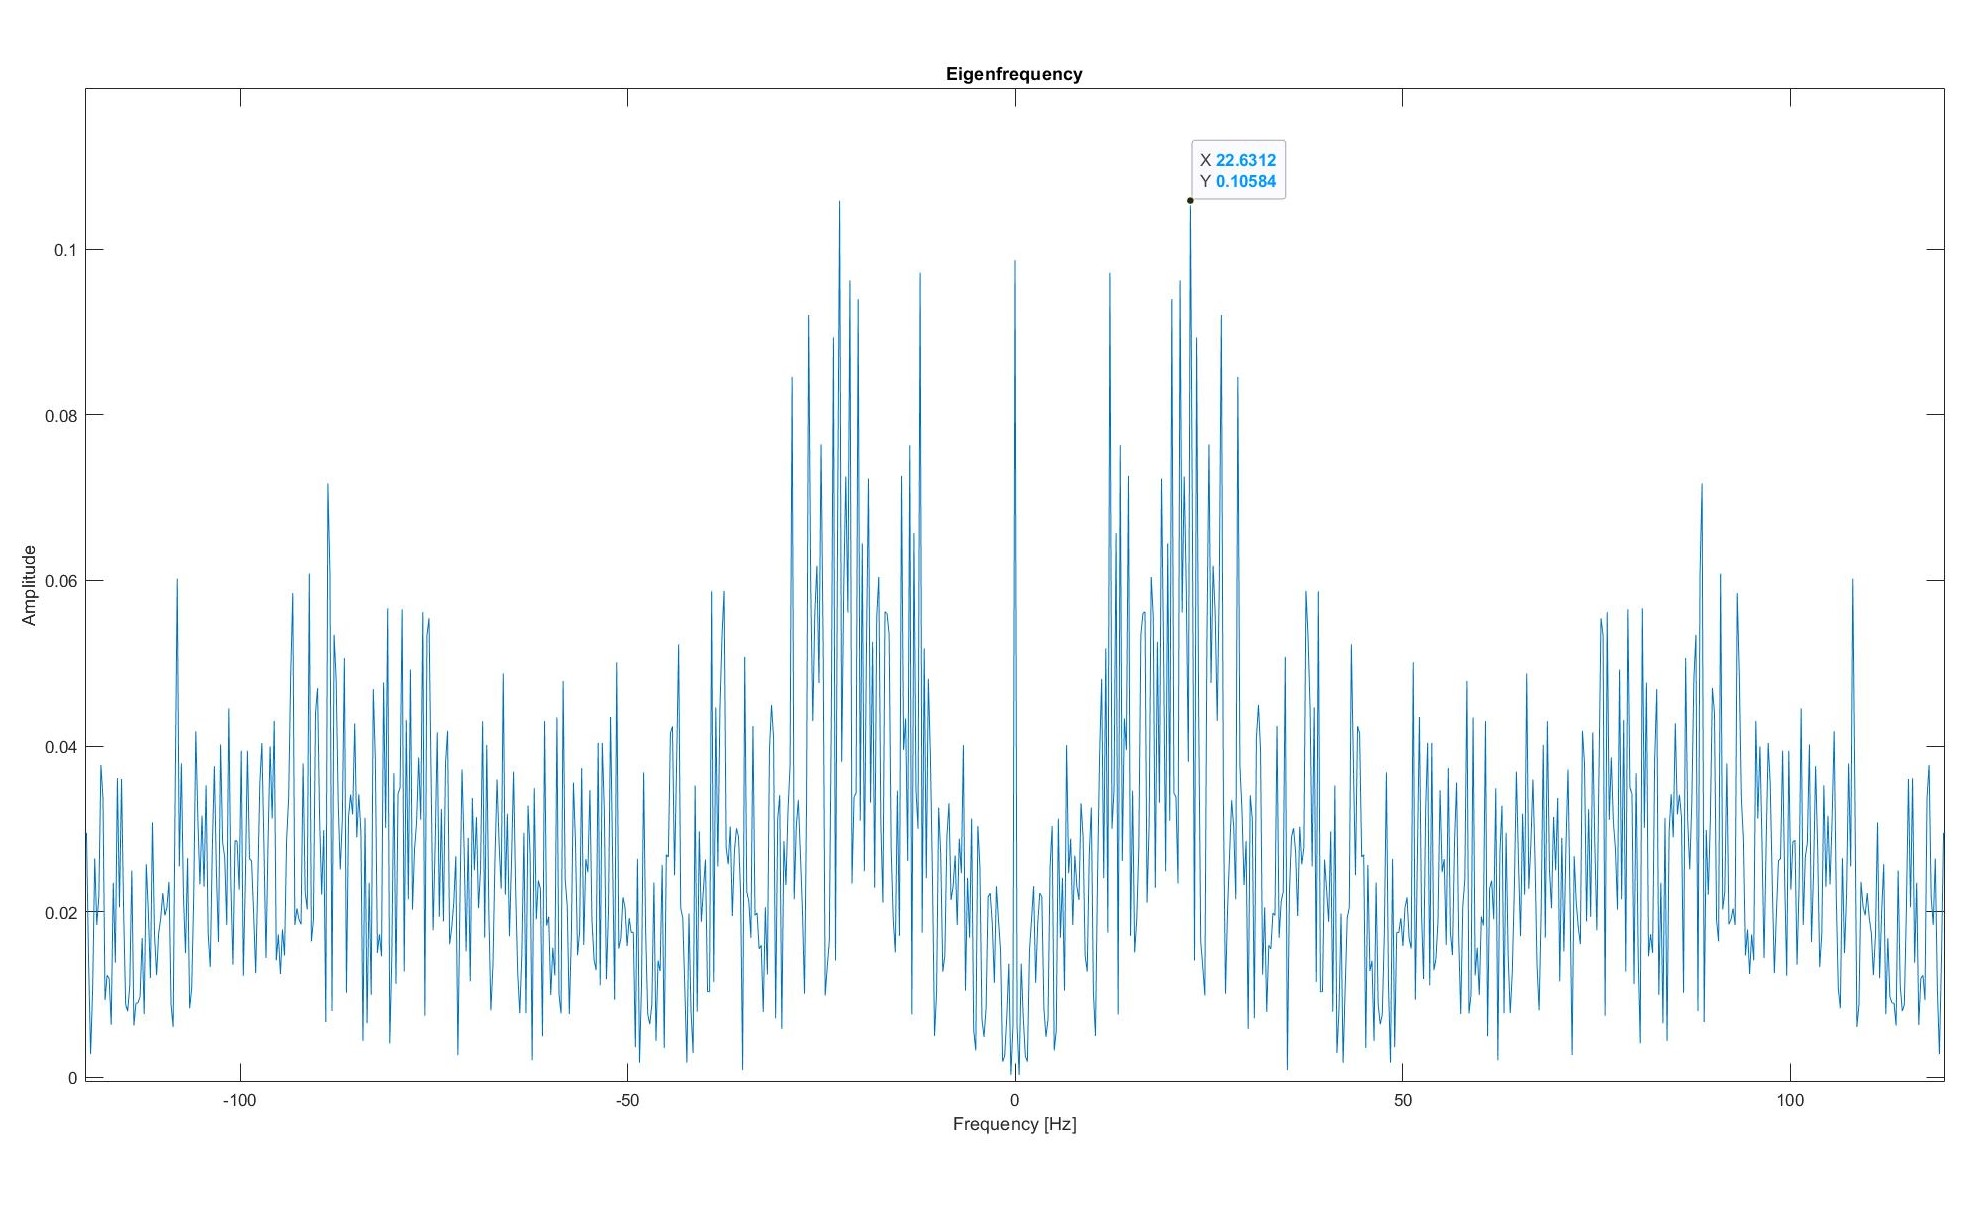
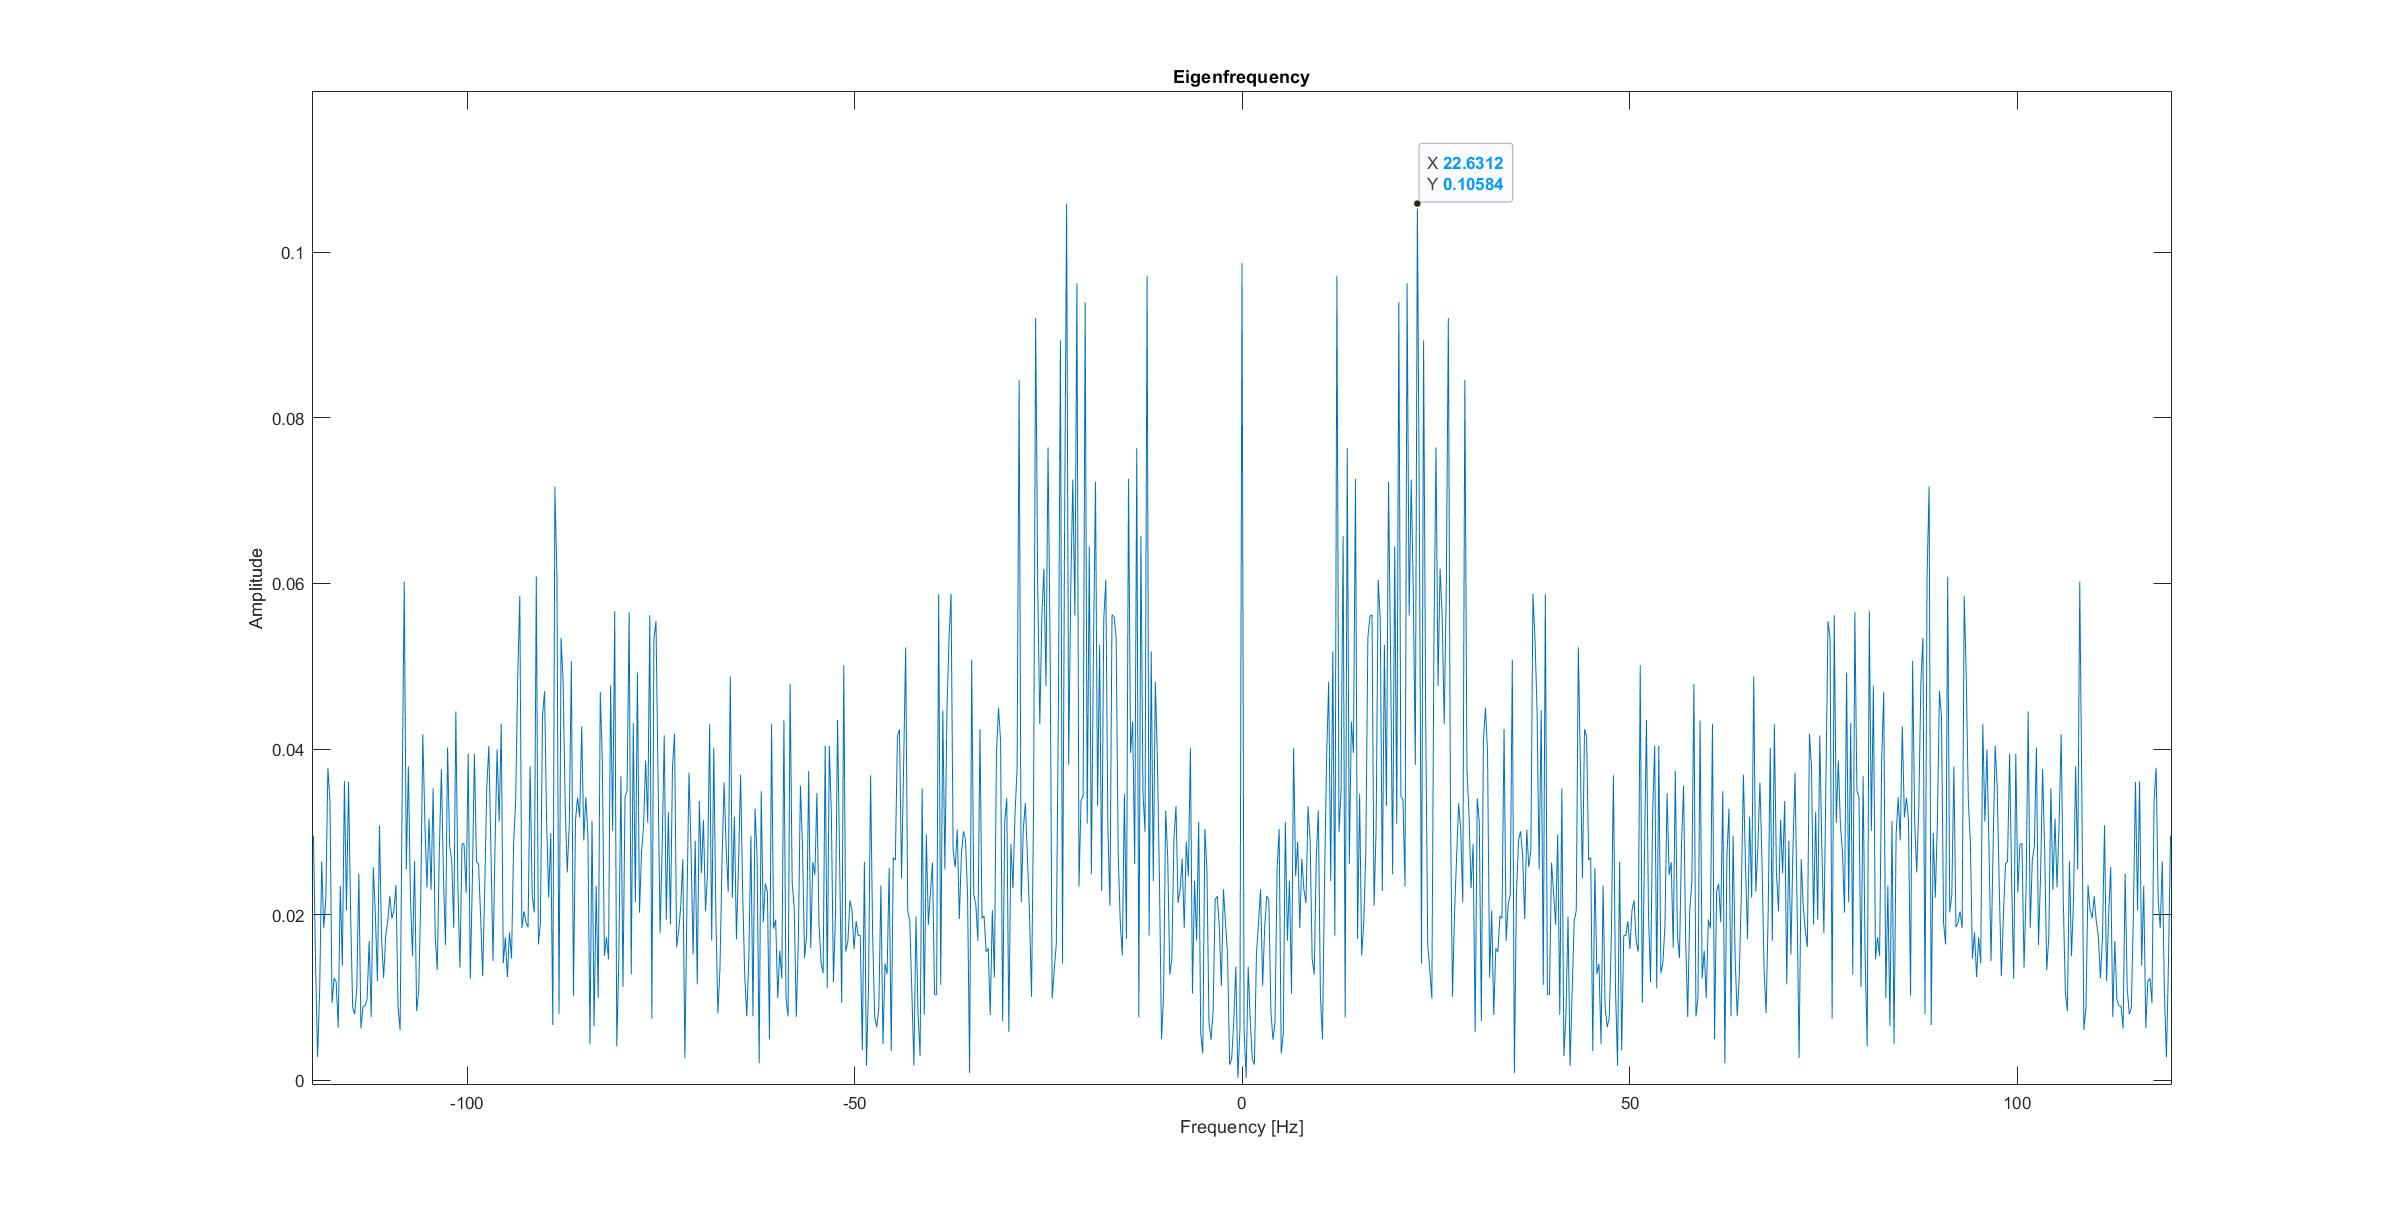
Pushing the edits made from the notes

diff --git a/docs/_site/analysis.html b/docs/_site/analysis.html
@@ -59,13 +59,12 @@ body {font-family: "Lato", sans-serif}
     <p class="w3-justify">The spikes correspond with the frequencies that have the most variation across the training set. For example, we can see the highest spike occurring at 22 Hz.  This means that there is lots of variation (because it is one of the first eigenfrequencies from PCA) at this frequency in the training set.</p>
     <p class="w3-justify">Using the test set, we project each of the Fouier transformations onto the basis vectors defined by the PCA of the training set.  We then find the Euclidean Distance between the training and test sets in order to classify the test signal as either a seizure or not.  The code for this classification can be found below:</p>
 	<h3 class="w3-wide">FILTERING DATA</h3>
-	<p class="w3-justify">To increase the ease of analysing the data, we use a moving average filter in order to smooth out some features of the data that we don't necessarily need to a full precision. We used difference equations on the Fourier transformed data to enable ourselves to focus on more useful aspects of the data. A difference equation defines the sequence by specifying the relation between the nth element of the sequence and various quantities, including (potentially) previous terms in the sequence.
-	    <img src="Moving Average Filter.jpg" class="w3-round w3-margin-bottom" alt="Filter" style="width:120%" class="center">
-	<p class="w3-justify">We used a seven point moving average filter.</p>
-	
-	<math>
-		filtered(x) = <sup>(x<sub>n-3</sub> + x<sub>n-2</sub> + x<sub>n-1</sub> + x<sub>n</sub> + x<sub>n+1</sub> + x<sub>n+2</sub> + x<sub>n+3</sub>)</sup>&frasl;<sub>7</sub>
-	</math>
+	<p class="w3-justify">To increase the ease of analysing the data, we use a moving average filter in order to smooth out some features of the data that we don't necessarily need to a full precision. We used difference equations on the Fourier transformed data to enable ourselves to focus on more useful aspects of the data. A difference equation defines the sequence by specifying the relation between the nth element of the sequence and various quantities, including (potentially) previous terms in the sequence. Before any sort of filtering, the eigenfrequencies looked as in the graph attached to the "Classifying Data" tab.</p>
+	<img src="eigenfrequency.jpg" class="w3-round w3-margin-bottom" alt="Unfiltered" style="width:120%" class="center">
+	<p class="w3-justify">We used a seven point moving average filter. </p><br>
+	<math>Filtered(x) = <sup>(x<sub>n-3</sub> + x<sub>n-2</sub> + x<sub>n-1</sub> + x<sub>n</sub> + x<sub>n+1</sub> + x<sub>n+2</sub> + x<sub>n+3</sub>)</sup>&frasl;<sub>7</sub></math><br>
+	<p class="w3-justify">Post filtering, this graph appears as follows:</p><br>
+	<img src="Moving Average Filter.jpg" class="w3-round w3-margin-bottom" alt="Filtered" style="width:120%" class="center">
 	</p>
   
   </div>

diff --git a/docs/analysis.html b/docs/analysis.html
@@ -59,13 +59,12 @@ body {font-family: "Lato", sans-serif}
     <p class="w3-justify">The spikes correspond with the frequencies that have the most variation across the training set. For example, we can see the highest spike occurring at 22 Hz.  This means that there is lots of variation (because it is one of the first eigenfrequencies from PCA) at this frequency in the training set.</p>
     <p class="w3-justify">Using the test set, we project each of the Fouier transformations onto the basis vectors defined by the PCA of the training set.  We then find the Euclidean Distance between the training and test sets in order to classify the test signal as either a seizure or not.  The code for this classification can be found below:</p>
 	<h3 class="w3-wide">FILTERING DATA</h3>
-	<p class="w3-justify">To increase the ease of analysing the data, we use a moving average filter in order to smooth out some features of the data that we don't necessarily need to a full precision. We used difference equations on the Fourier transformed data to enable ourselves to focus on more useful aspects of the data. A difference equation defines the sequence by specifying the relation between the nth element of the sequence and various quantities, including (potentially) previous terms in the sequence.
-	    <img src="Moving Average Filter.jpg" class="w3-round w3-margin-bottom" alt="Filter" style="width:120%" class="center">
-	<p class="w3-justify">We used a seven point moving average filter.</p>
-	
-	<math>
-		filtered(x) = <sup>(x<sub>n-3</sub> + x<sub>n-2</sub> + x<sub>n-1</sub> + x<sub>n</sub> + x<sub>n+1</sub> + x<sub>n+2</sub> + x<sub>n+3</sub>)</sup>&frasl;<sub>7</sub>
-	</math>
+	<p class="w3-justify">To increase the ease of analysing the data, we use a moving average filter in order to smooth out some features of the data that we don't necessarily need to a full precision. We used difference equations on the Fourier transformed data to enable ourselves to focus on more useful aspects of the data. A difference equation defines the sequence by specifying the relation between the nth element of the sequence and various quantities, including (potentially) previous terms in the sequence. Before any sort of filtering, the eigenfrequencies looked as in the graph attached to the "Classifying Data" tab.</p>
+	<img src="eigenfrequency.jpg" class="w3-round w3-margin-bottom" alt="Unfiltered" style="width:120%" class="center">
+	<p class="w3-justify">We used a seven point moving average filter. </p><br>
+	<math>Filtered(x) = <sup>(x<sub>n-3</sub> + x<sub>n-2</sub> + x<sub>n-1</sub> + x<sub>n</sub> + x<sub>n+1</sub> + x<sub>n+2</sub> + x<sub>n+3</sub>)</sup>&frasl;<sub>7</sub></math><br>
+	<p class="w3-justify">Post filtering, this graph appears as follows:</p><br>
+	<img src="Moving Average Filter.jpg" class="w3-round w3-margin-bottom" alt="Filtered" style="width:120%" class="center">
 	</p>
   
   </div>
